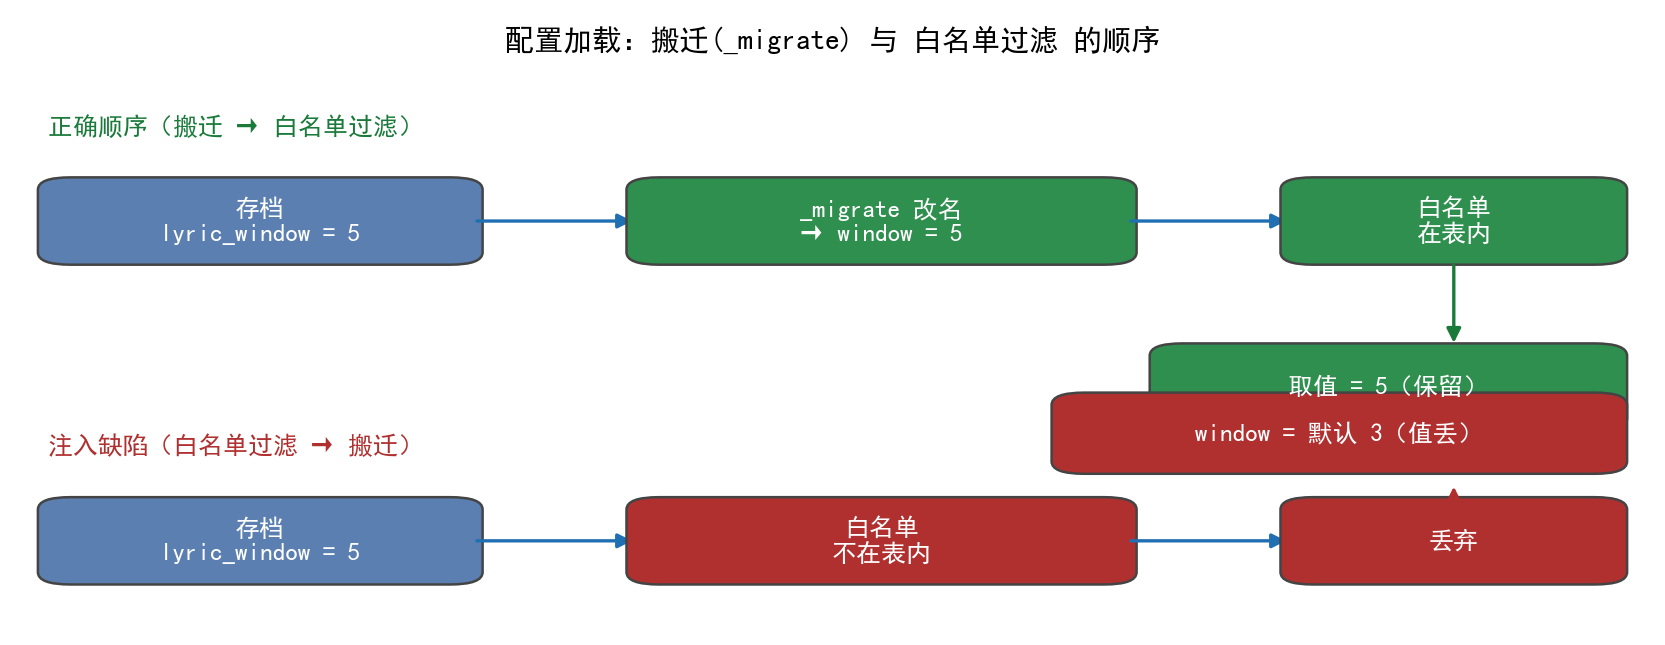
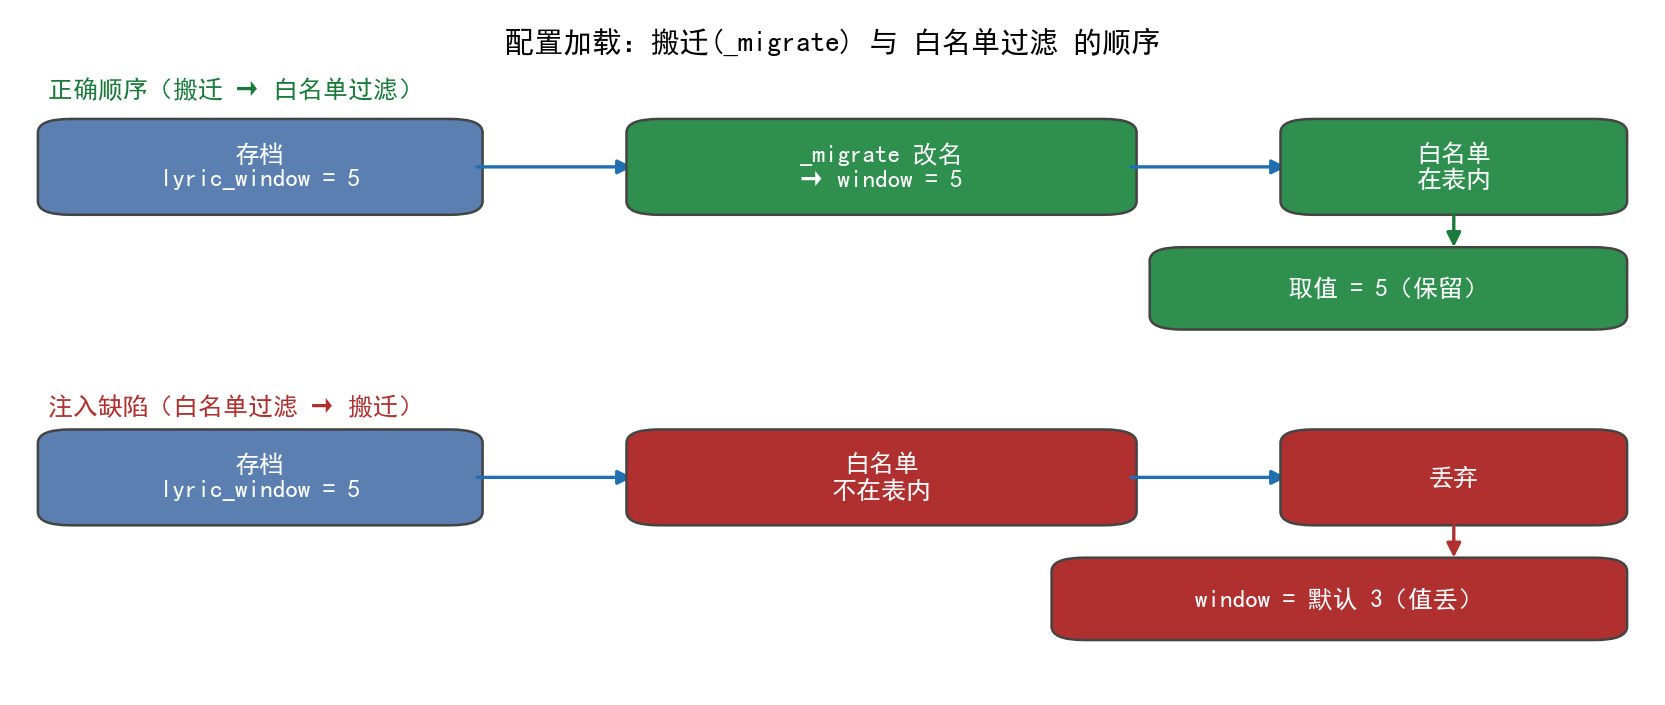
fix(书稿): 图1 布局修正——下排结果框归位丢弃正下方，消除与上排结果框的重叠

diff --git a/podcast-maker-book/articles/assets/3_peizhiqianyi_fig1.py b/podcast-maker-book/articles/assets/3_peizhiqianyi_fig1.py
@@ -23,7 +23,7 @@ plt.rcParams["axes.unicode_minus"] = False
 OUT = "articles/assets"
 
 # ---------- 图1：加载顺序对比 ----------
-fig, ax = plt.subplots(figsize=(11.2, 4.4))
+fig, ax = plt.subplots(figsize=(11.2, 4.8))
 ax.set_xlim(0, 100); ax.set_ylim(0, 100); ax.axis("off")
 
 def box(ax, x, y, w, h, text, fc, tc="white", fs=12):
@@ -43,26 +43,26 @@ ax.text(50, 96, "配置加载：搬迁(_migrate) 与 白名单过滤 的顺序",
         va="center", fontsize=14, fontweight="bold", fontproperties=prop)
 
 # 上排：正确顺序
-ax.text(2, 82, "正确顺序（搬迁 → 白名单过滤）", ha="left", va="center",
+ax.text(2, 89, "正确顺序（搬迁 → 白名单过滤）", ha="left", va="center",
         fontsize=12, color="#1a7a3a", fontproperties=prop, fontweight="bold")
-box(ax, 2, 60, 26, 13, "存档\nlyric_window = 5", "#5a7fb0")
-arrow(ax, 28, 66.5, 38, 66.5)
-box(ax, 38, 60, 30, 13, "_migrate 改名\n→ window = 5", "#2f8f4e")
-arrow(ax, 68, 66.5, 78, 66.5)
-box(ax, 78, 60, 20, 13, "白名单\n在表内", "#2f8f4e")
-arrow(ax, 88, 60, 88, 46, "#1a7a3a")
-box(ax, 70, 33, 28, 13, "取值 = 5（保留）", "#2f8f4e")
+box(ax, 2, 71, 26, 13, "存档\nlyric_window = 5", "#5a7fb0")
+arrow(ax, 28, 77.5, 38, 77.5)
+box(ax, 38, 71, 30, 13, "_migrate 改名\n→ window = 5", "#2f8f4e")
+arrow(ax, 68, 77.5, 78, 77.5)
+box(ax, 78, 71, 20, 13, "白名单\n在表内", "#2f8f4e")
+arrow(ax, 88, 71, 88, 65, "#1a7a3a")
+box(ax, 70, 54, 28, 11, "取值 = 5（保留）", "#2f8f4e")
 
 # 下排：错误顺序
-ax.text(2, 30, "注入缺陷（白名单过滤 → 搬迁）", ha="left", va="center",
+ax.text(2, 42, "注入缺陷（白名单过滤 → 搬迁）", ha="left", va="center",
         fontsize=12, color="#b03030", fontproperties=prop, fontweight="bold")
-box(ax, 2, 8, 26, 13, "存档\nlyric_window = 5", "#5a7fb0")
-arrow(ax, 28, 14.5, 38, 14.5)
-box(ax, 38, 8, 30, 13, "白名单\n不在表内", "#b03030")
-arrow(ax, 68, 14.5, 78, 14.5)
-box(ax, 78, 8, 20, 13, "丢弃", "#b03030")
-arrow(ax, 88, 8, 88, 24, "#b03030")
-box(ax, 64, 26, 34, 12, "window = 默认 3（值丢）", "#b03030")
+box(ax, 2, 25, 26, 13, "存档\nlyric_window = 5", "#5a7fb0")
+arrow(ax, 28, 31.5, 38, 31.5)
+box(ax, 38, 25, 30, 13, "白名单\n不在表内", "#b03030")
+arrow(ax, 68, 31.5, 78, 31.5)
+box(ax, 78, 25, 20, 13, "丢弃", "#b03030")
+arrow(ax, 88, 25, 88, 19, "#b03030")
+box(ax, 64, 8, 34, 11, "window = 默认 3（值丢）", "#b03030")
 
 fig.tight_layout()
 fig.savefig(f"{OUT}/3_peizhiqianyi_fig1.png", dpi=150, bbox_inches="tight")
